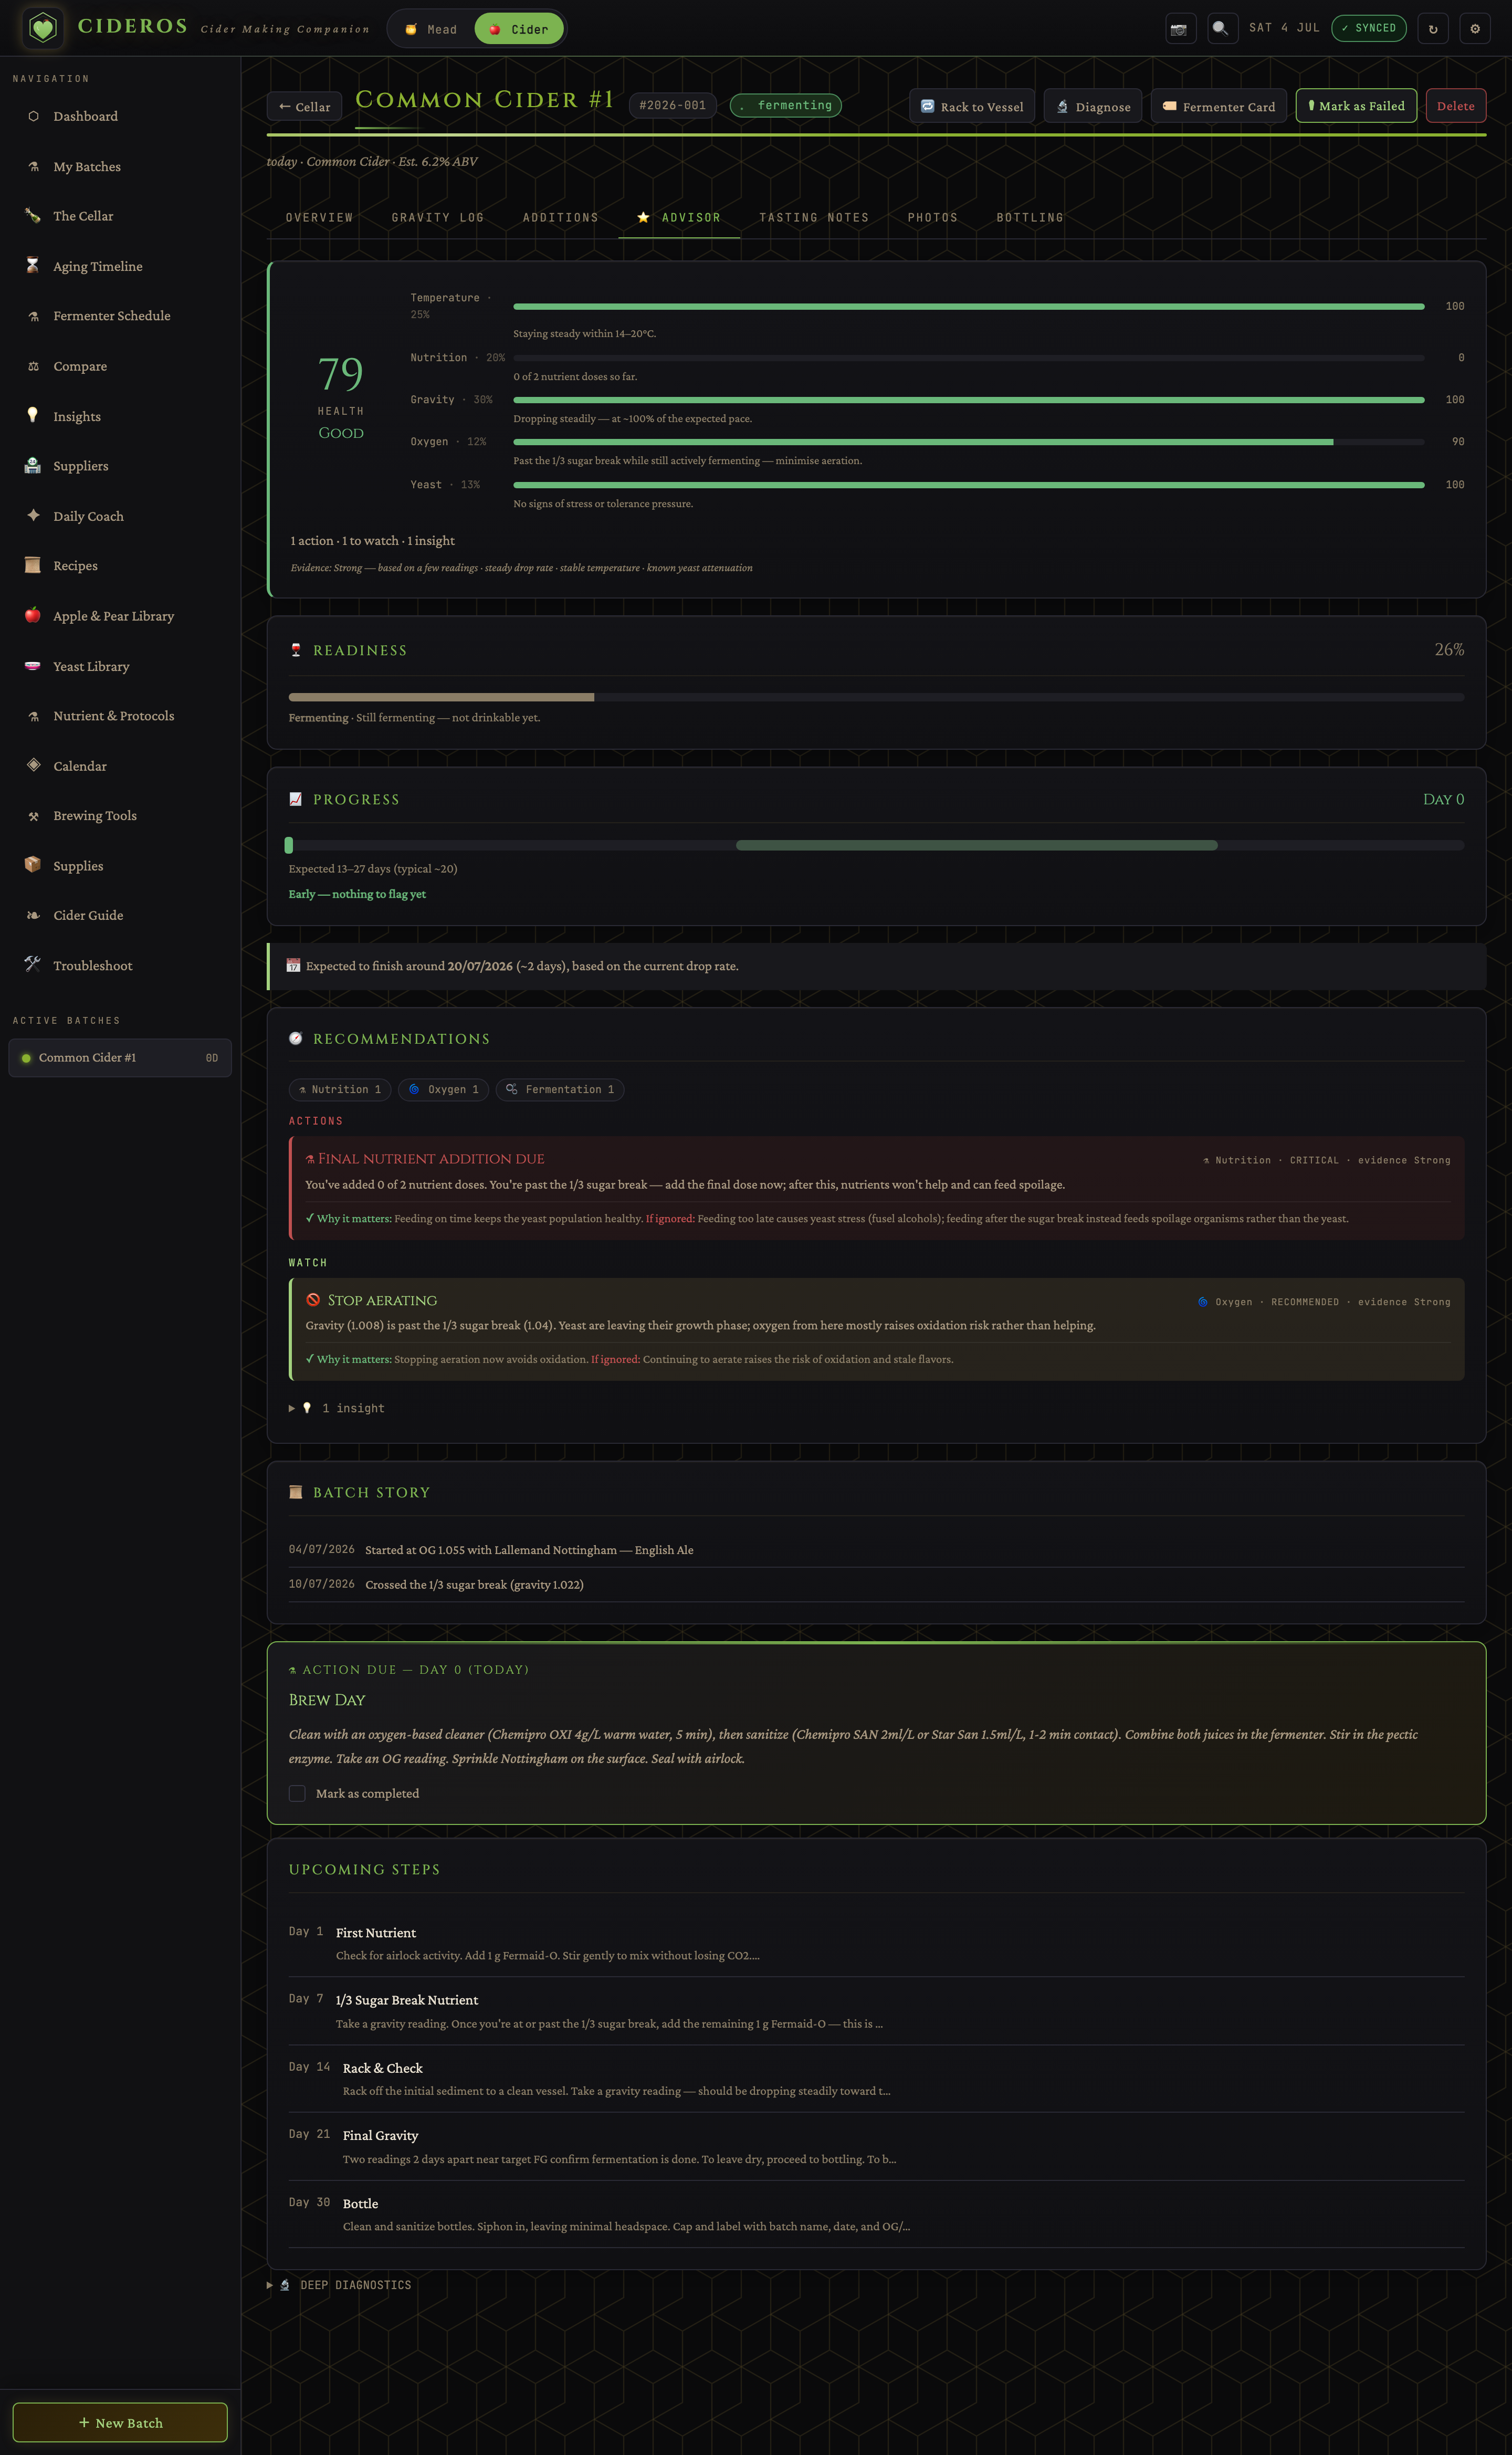
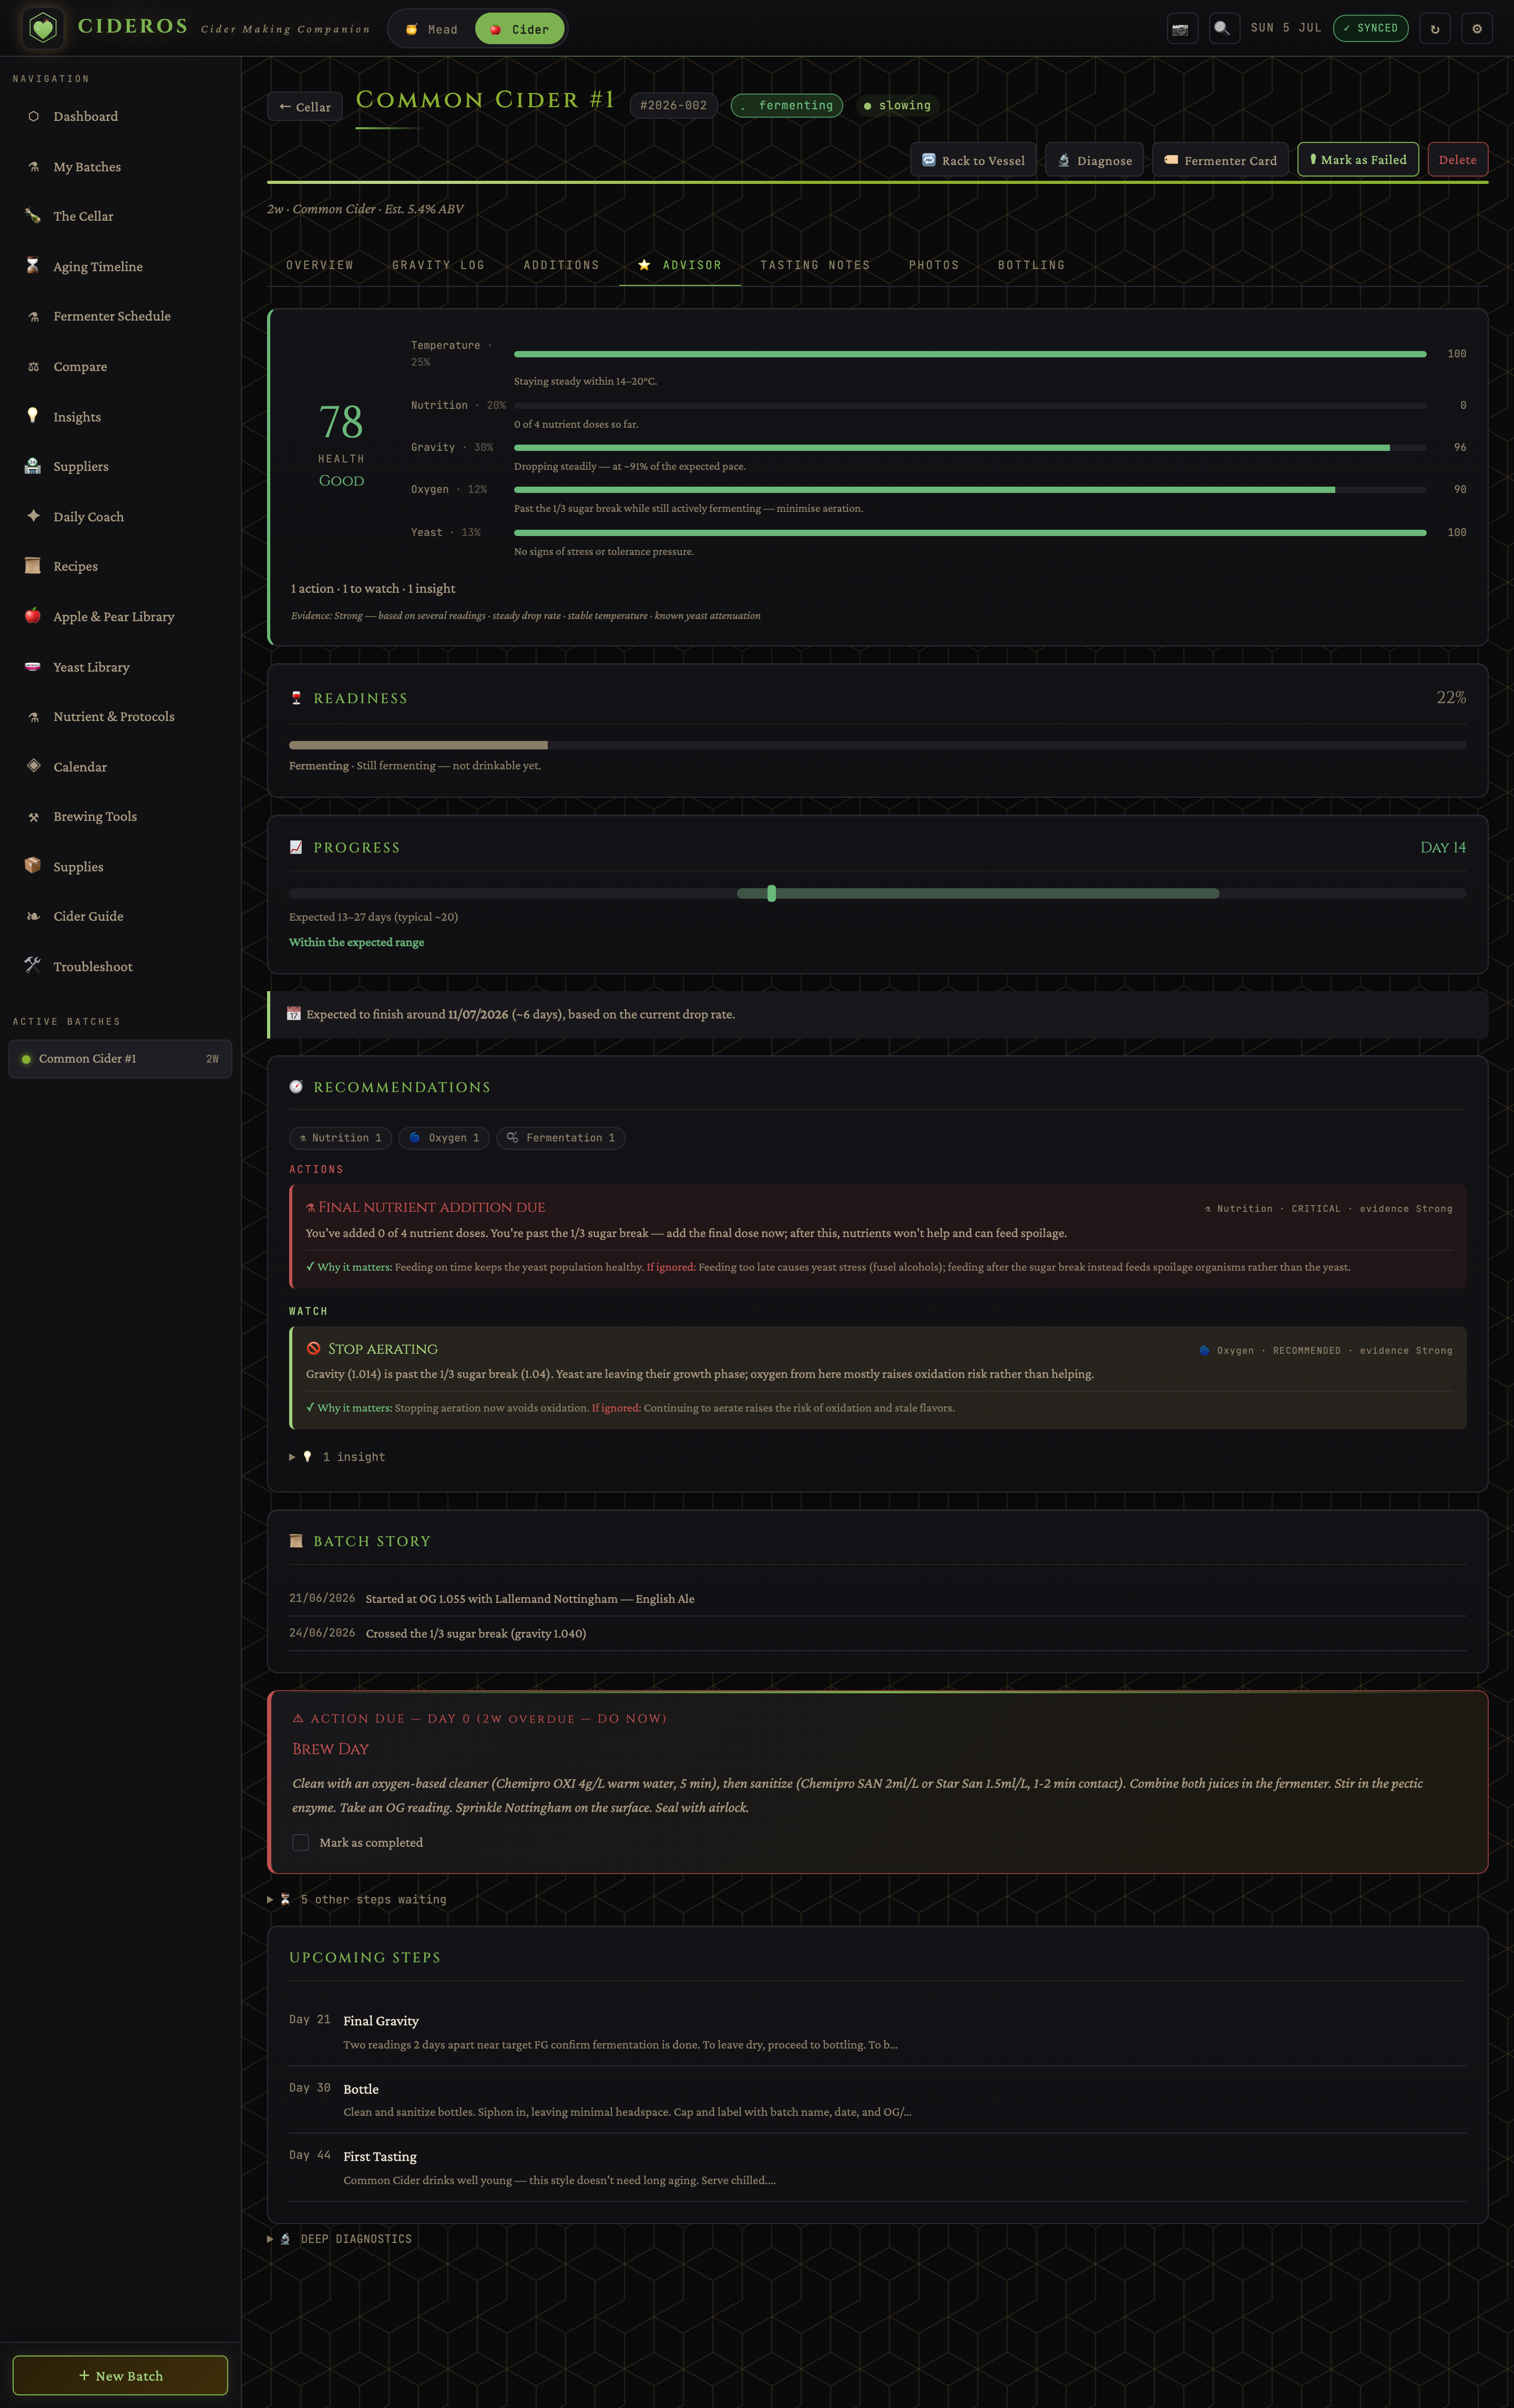
Cider-mode polish + beverage-mode filtering
A guided Recipe Designer wizard for cider, share-link revocation, and beverage-mode filtering across Insights so mead and cider stats stop mixing.

diff --git a/core/features/11-recipe-designer.js b/core/features/11-recipe-designer.js
@@ -93,10 +93,85 @@ function wizRecommendYeasts(targetAbv){
   });
   return ok.length?ok:YEAST_STRAINS.slice();
 }
+
+// ==================== CIDER RECIPE DESIGNER WIZARD ====================
+// Cider counterpart to the mead wizard above. Shares the same step shell
+// (renderRecipeWizard, wizNav, the modal) but diverges on the two things
+// that are genuinely different for cider: there's no honey to back-solve
+// (juice supplies its own OG — see Formulas & Methods §17 in the wiki).
+var WIZ_CIDER_STYLES=[
+  {key:'Common Cider',label:'Common',color:'#8ab030',adjunct:null,desc:'Culinary apples — the honest everyday cider.'},
+  {key:'Heirloom Cider',label:'Heirloom',color:'#6a4020',adjunct:null,desc:'Real cider-apple character — a bittersweet + sharp blend.'},
+  {key:'English Cider',label:'English',color:'#754020',adjunct:null,desc:'Tannic and full-bodied, built around a bittersharp backbone.'},
+  {key:'New England Cider',label:'New England',color:'#9a6a2a',adjunct:null,desc:'Higher-ABV, raisin/brown-sugar boosted tradition.'},
+  {key:'Fruit Cider',label:'Fruit',color:'#c04858',adjunct:'fruit',desc:'Apple cider fermented or blended with fruit.'},
+  {key:'Spiced Cider',label:'Spiced',color:'#7a5230',adjunct:'spice',desc:'Warming spices — mulled-cider character.'},
+  {key:'Ice Cider',label:'Ice Cider',color:'#5a8aa0',adjunct:null,desc:'Freeze-concentrated juice — rich, dessert-sweet.'}
+];
+function wizComputeCiderMath(w){
+  var sw=WIZ_SWEETNESS.find(function(s){return s.key===w.sweetness;})||WIZ_SWEETNESS[2];
+  var fg=sw.fg;
+  var abv=parseFloat(w.abv)||6.5;
+  var vol=parseFloat(w.volume)||5;
+  var og=fg+abv/131.25;
+  // No honey-equivalent back-solve here — juice supplies its own fermentable
+  // sugar, so there's nothing to weigh out the way honey is. The wizard's
+  // job is to tell you the OG your juice/blend needs to hit, not to compute
+  // an ingredient amount (see Cider-Mode wiki page for why).
+  return{fg:fg,og:Math.round(og*1000)/1000,abv:abv,vol:vol,juiceL:vol};
+}
+function wizRecommendCiderYeasts(targetAbv){
+  var ciderYeasts=YEAST_STRAINS.filter(function(y){return(y.beverageTypes||[]).indexOf('cider')>=0;});
+  var ok=ciderYeasts.filter(function(y){return(y.abvMax||14)>=targetAbv+0.5;});
+  ok.sort(function(a,b){
+    if(a.id==='nottingham')return-1;if(b.id==='nottingham')return 1;
+    return(a.abvMax||14)-(b.abvMax||14);
+  });
+  return ok.length?ok:ciderYeasts;
+}
+function wizBuildCiderRecipe(w){
+  var m=wizComputeCiderMath(w);
+  var st=WIZ_CIDER_STYLES.find(function(s){return s.key===w.style;})||WIZ_CIDER_STYLES[0];
+  var yeast=getYeastById(w.yeast)||wizRecommendCiderYeasts(m.abv)[0];
+  var fermDays=m.abv>=9?35:21;
+  var ingredients=[
+    {item:'Apple Juice',amount:m.juiceL+' L',notes:st.key==='Ice Cider'?'Freeze-concentrate part of this to reach the target OG':'Fresh-pressed or 100% juice, no preservatives/sorbate'}
+  ];
+  if(st.adjunct==='fruit'||st.adjunct==='spice'){
+    ingredients.push({item:w.adjunctName||(st.adjunct==='fruit'?'Fruit':'Spices'),amount:w.adjunctAmount||(st.adjunct==='fruit'?Math.round(m.vol*0.2*10)/10+' kg':'to taste'),notes:'Add in secondary'});
+  }
+  if(st.key==='New England Cider'){
+    ingredients.push({item:'Raisins',amount:Math.round(m.vol*0.1*100)/100+' kg',notes:'Traditional gravity/body boost'});
+    ingredients.push({item:'Brown Sugar',amount:Math.round(m.vol*0.1*100)/100+' kg',notes:'Dissolve into the juice to help reach target OG'});
+  }
+  ingredients.push({item:yeast.name,amount:(yeast.sachetSize||11)+' '+(yeast.unit||'g')+' (1 packet)',notes:'Sprinkle on must or rehydrate per packet instructions'});
+  ingredients.push({item:'Pectic Enzyme',amount:Math.round(m.vol*0.4*10)/10+' g',notes:'Prevents a lasting pectin haze — apple/pear juice always carries natural pectin'});
+  ingredients.push({item:'Fermaid-O',amount:Math.round(m.vol*0.4*10)/10+' g total',notes:'Staggered addition — apple must is nitrogen-poor like honey must'});
+  var steps=[
+    {day:0,title:'Brew Day',desc:'Clean & sanitize. Combine the juice'+(st.adjunct==='fruit'?' and fruit':'')+' in the fermenter. Stir in the pectic enzyme. Take an OG reading (target '+m.og+'). Sprinkle/rehydrate '+yeast.name.split('—')[0].trim()+' and pitch. Seal with airlock.'},
+    {day:1,title:'First Nutrient',desc:'Add half the Fermaid-O. Stir gently to mix without losing CO2.'},
+    {day:7,title:'1/3 Sugar Break Nutrient',desc:'Once at or past the 1/3 sugar break, add the remaining Fermaid-O — the last nutrient addition.'},
+    {day:14,title:'Rack & Check',desc:'Rack off the initial sediment to a clean vessel. Take a gravity reading — should be dropping steadily toward '+m.fg.toFixed(3)+'.'},
+    {day:fermDays,title:'Final Gravity & Bottle',desc:'Two stable readings near '+m.fg.toFixed(3)+' confirm completion. To back-sweeten, stabilise first with metabisulfite AND sorbate together. Then bottle.'}
+  ];
+  var minDays=m.abv>=9?60:14;
+  return{
+    name:w.name||((WIZ_CIDER_STYLES.find(function(s){return s.key===w.style;})||{}).label||'Cider')+' (Designed)',
+    style:w.style,difficulty:m.abv>=9?'Intermediate':'Beginner',
+    description:'Designed for '+m.abv+'% ABV, '+(WIZ_SWEETNESS.find(function(s){return s.key===w.sweetness;})||{}).label.toLowerCase()+'. '+st.desc,
+    brandColor:st.color,beverageType:'cider',
+    volume:m.vol,ogTarget:m.og,fgTarget:m.fg,abvTarget:m.abv,fermentDays:fermDays,
+    minAgeDays:minDays,peakAgeDays:minDays+60,maxAgeDays:minDays+240,
+    tags:['custom','designed',st.label.split(' ')[0].toLowerCase()],
+    ingredients:ingredients,steps:steps
+  };
+}
+
 function openRecipeWizard(){
   closeModal();
-  window._wiz={step:0,name:'',style:'Traditional Mead',volume:5,abv:12,sweetness:'semi',
-    yeast:'m05',nutrient:'tosca2',adjunctName:'',adjunctAmount:''};
+  var isCider=(typeof activeBevMode==='function')&&activeBevMode()==='cider';
+  window._wiz={step:0,name:'',style:isCider?'Common Cider':'Traditional Mead',volume:5,abv:isCider?6.5:12,sweetness:'semi',
+    yeast:isCider?'nottingham':'m05',nutrient:'tosca2',adjunctName:'',adjunctAmount:''};
   renderRecipeWizard();
 }
 function wizSet(field,val){
@@ -104,9 +179,10 @@ function wizSet(field,val){
   window._wiz[field]=val;
   // Picking a style preselects a sensible adjunct placeholder
   if(field==='style'){
-    var st=WIZ_STYLES.find(function(s){return s.key===val;});
+    var isCider=(typeof activeBevMode==='function')&&activeBevMode()==='cider';
+    var st=(isCider?WIZ_CIDER_STYLES:WIZ_STYLES).find(function(s){return s.key===val;});
     if(st&&st.adjunct&&!window._wiz.adjunctName){
-      window._wiz.adjunctName=st.adjunct==='fruit'?'Fruit (e.g. raspberries)':st.adjunct==='juice'?(val==='Cyser'?'Fresh apple juice':'Grape juice'):'Spices';
+      window._wiz.adjunctName=st.adjunct==='fruit'?(isCider?'Fruit (e.g. blackberries)':'Fruit (e.g. raspberries)'):st.adjunct==='juice'?(val==='Cyser'?'Fresh apple juice':'Grape juice'):'Spices';
     }
   }
   renderRecipeWizard();
@@ -125,7 +201,9 @@ function wizNav(delta){
   renderRecipeWizard();
 }
 function wizBuildRecipe(){
-  var w=window._wiz,m=wizComputeMath(w);
+  var w=window._wiz;
+  if((typeof activeBevMode==='function')&&activeBevMode()==='cider')return wizBuildCiderRecipe(w);
+  var m=wizComputeMath(w);
   var st=WIZ_STYLES.find(function(s){return s.key===w.style;})||WIZ_STYLES[0];
   var yeast=getYeastById(w.yeast)||YEAST_STRAINS[0];
   var fermDays=m.abv>=15?56:42;
@@ -180,14 +258,16 @@ function wizFinish(){
 function renderRecipeWizard(){
   var w=window._wiz;if(!w)return;
   var existing=document.querySelector('.modal-overlay');if(existing)existing.remove();
-  var m=wizComputeMath(w);
+  var isCider=(typeof activeBevMode==='function')&&activeBevMode()==='cider';
+  var m=isCider?wizComputeCiderMath(w):wizComputeMath(w);
+  var styleList=isCider?WIZ_CIDER_STYLES:WIZ_STYLES;
   var steps=['Style & Targets','Yeast','Adjuncts & Nutrient','Review'];
   var dots=steps.map(function(s,i){
     return'<div style="display:flex;align-items:center;gap:6px"><div style="width:22px;height:22px;border-radius:50%;display:flex;align-items:center;justify-content:center;font-family:var(--font-mono);font-size:11px;'+(i===w.step?'background:var(--gold);color:#1a1a0f':i<w.step?'background:var(--green2);color:#0f0f0a':'background:var(--bg3);color:var(--text3)')+'">'+(i<w.step?'✓':(i+1))+'</div><span style="font-family:var(--font-mono);font-size:10px;letter-spacing:0.5px;color:'+(i===w.step?'var(--gold2)':'var(--text3)')+'">'+s+'</span></div>';
   }).join('<div style="flex:1;height:1px;background:var(--border);min-width:8px"></div>');
   var body='';
   if(w.step===0){
-    var styleBtns=WIZ_STYLES.map(function(s){
+    var styleBtns=styleList.map(function(s){
       var on=w.style===s.key;
       return'<button type="button" onclick="wizSet(\'style\',\''+s.key+'\')" style="text-align:left;padding:10px 12px;border-radius:var(--radius);cursor:pointer;border:1px solid '+(on?s.color:'var(--border)')+';background:'+(on?s.color+'22':'var(--bg3)')+'"><div style="font-size:13px;color:'+(on?s.color:'var(--text)')+';font-weight:500">'+s.label+'</div><div style="font-size:11px;color:var(--text3);line-height:1.3;margin-top:2px">'+s.desc+'</div></button>';
     }).join('');
@@ -195,22 +275,23 @@ function renderRecipeWizard(){
       var on=w.sweetness===s.key;
       return'<button type="button" onclick="wizSet(\'sweetness\',\''+s.key+'\')" style="flex:1;min-width:84px;padding:8px 6px;border-radius:var(--radius);cursor:pointer;border:1px solid '+(on?'var(--gold)':'var(--border)')+';background:'+(on?'rgba(201,168,76,0.14)':'var(--bg3)')+'"><div style="font-size:12px;color:'+(on?'var(--gold2)':'var(--text)')+'">'+s.label+'</div><div style="font-family:var(--font-mono);font-size:9.5px;color:var(--text3);margin-top:2px">FG '+s.fg.toFixed(3)+'</div></button>';
     }).join('');
-    body='<div class="form-group"><label class="form-label">Recipe Name</label><input class="form-input" id="wiz-name" value="'+escHtml(w.name)+'" placeholder="My Designer Mead"></div>'
+    body='<div class="form-group"><label class="form-label">Recipe Name</label><input class="form-input" id="wiz-name" value="'+escHtml(w.name)+'" placeholder="'+(isCider?'My Designer Cider':'My Designer Mead')+'"></div>'
       +'<div class="form-group"><label class="form-label">Style</label><div style="display:grid;grid-template-columns:1fr 1fr;gap:8px">'+styleBtns+'</div></div>'
       +'<div class="form-row"><div class="form-group"><label class="form-label">Batch Volume (L)</label><input class="form-input" id="wiz-vol" type="number" step="0.5" value="'+w.volume+'" oninput="window._wiz.volume=parseFloat(this.value)||5;wizUpdateMath()"></div>'
-      +'<div class="form-group"><label class="form-label">Target ABV (%)</label><input class="form-input" id="wiz-abv" type="number" step="0.5" value="'+w.abv+'" oninput="window._wiz.abv=parseFloat(this.value)||12;wizUpdateMath()"></div></div>'
+      +'<div class="form-group"><label class="form-label">Target ABV (%)</label><input class="form-input" id="wiz-abv" type="number" step="0.5" value="'+w.abv+'" oninput="window._wiz.abv=parseFloat(this.value)||'+(isCider?6.5:12)+';wizUpdateMath()"></div></div>'
       +'<div class="form-group"><label class="form-label">Sweetness</label><div style="display:flex;gap:6px;flex-wrap:wrap">'+sweetBtns+'</div></div>'
       +wizMathBox(m);
   }else if(w.step===1){
-    var recs=wizRecommendYeasts(m.abv);
+    var recs=isCider?wizRecommendCiderYeasts(m.abv):wizRecommendYeasts(m.abv);
     var recIds={};recs.slice(0,3).forEach(function(y){recIds[y.id]=true;});
-    var opts=YEAST_STRAINS.map(function(y){
+    var yeastPool=isCider?YEAST_STRAINS.filter(function(y){return(y.beverageTypes||[]).indexOf('cider')>=0;}):YEAST_STRAINS;
+    var opts=yeastPool.map(function(y){
       var fits=(y.abvMax||14)>=m.abv+0.5;
       return'<option value="'+y.id+'"'+(w.yeast===y.id?' selected':'')+'>'+escHtml(y.name)+' · '+(y.abvMax||'?')+'% max'+(fits?'':' ⚠ below target')+(recIds[y.id]?' ★':'')+'</option>';
     }).join('');
-    var chosen=getYeastById(w.yeast)||YEAST_STRAINS[0];
+    var chosen=getYeastById(w.yeast)||yeastPool[0];
     var fitsTarget=(chosen.abvMax||14)>=m.abv+0.5;
-    body='<div style="font-size:13px;color:var(--text2);margin-bottom:12px;line-height:1.5">For <strong>'+m.abv+'% ABV</strong> you need a yeast that tolerates at least that. ★ marks strains recommended for this target (honey-friendly, enough headroom).</div>'
+    body='<div style="font-size:13px;color:var(--text2);margin-bottom:12px;line-height:1.5">For <strong>'+m.abv+'% ABV</strong> you need a yeast that tolerates at least that. ★ marks strains recommended for this target ('+(isCider?'cider-appropriate':'honey-friendly')+', enough headroom).</div>'
       +'<div class="form-group"><label class="form-label">Yeast Strain</label><select class="form-select" id="wiz-yeast" onchange="window._wiz.yeast=this.value;renderRecipeWizard()">'+opts+'</select></div>'
       +'<div style="padding:12px;background:var(--bg3);border-radius:var(--radius);border-left:3px solid '+(fitsTarget?'var(--green2)':'var(--red2)')+'">'
       +'<div style="font-size:13px;color:var(--text);font-weight:500">'+escHtml(chosen.name)+'</div>'
@@ -219,14 +300,19 @@ function renderRecipeWizard(){
       +(fitsTarget?'':'<div style="font-size:12px;color:var(--red2);margin-top:6px">⚠ This strain may not reach '+m.abv+'% — it could stall sweet. Pick one with higher tolerance or lower your target.</div>')
       +'</div>'+wizMathBox(m);
   }else if(w.step===2){
-    var st=WIZ_STYLES.find(function(s){return s.key===w.style;})||WIZ_STYLES[0];
+    var st=styleList.find(function(s){return s.key===w.style;})||styleList[0];
     var adjBlock='';
     if(st.adjunct){
-      adjBlock='<div class="form-row"><div class="form-group"><label class="form-label">'+(st.adjunct==='fruit'?'Fruit':st.adjunct==='spice'?'Spice / herb':'Juice')+'</label><input class="form-input" id="wiz-adj-name" value="'+escHtml(w.adjunctName)+'" placeholder="'+(st.adjunct==='fruit'?'Raspberries, frozen':st.adjunct==='spice'?'Cinnamon, vanilla…':'Apple juice')+'"></div>'
-        +'<div class="form-group"><label class="form-label">Amount</label><input class="form-input" id="wiz-adj-amt" value="'+escHtml(w.adjunctAmount)+'" placeholder="'+(st.adjunct==='fruit'?(Math.round(m.vol*0.3*10)/10+' kg'):st.adjunct==='spice'?'2 sticks':(Math.round(m.vol*0.5*10)/10+' L'))+'"></div></div>';
+      adjBlock='<div class="form-row"><div class="form-group"><label class="form-label">'+(st.adjunct==='fruit'?'Fruit':st.adjunct==='spice'?'Spice / herb':'Juice')+'</label><input class="form-input" id="wiz-adj-name" value="'+escHtml(w.adjunctName)+'" placeholder="'+(st.adjunct==='fruit'?(isCider?'Blackberries, frozen':'Raspberries, frozen'):st.adjunct==='spice'?'Cinnamon, vanilla…':'Apple juice')+'"></div>'
+        +'<div class="form-group"><label class="form-label">Amount</label><input class="form-input" id="wiz-adj-amt" value="'+escHtml(w.adjunctAmount)+'" placeholder="'+(st.adjunct==='fruit'?(Math.round(m.vol*(isCider?0.2:0.3)*10)/10+' kg'):st.adjunct==='spice'?'2 sticks':(Math.round(m.vol*0.5*10)/10+' L'))+'"></div></div>';
     }else{
-      adjBlock='<div style="font-size:13px;color:var(--text3);font-style:italic;margin-bottom:12px">'+escHtml(st.label)+' is a base-style mead — no fruit/spice adjuncts. You can still add some in the editor afterwards.</div>';
+      adjBlock='<div style="font-size:13px;color:var(--text3);font-style:italic;margin-bottom:12px">'+escHtml(st.label)+' is a base-style '+(isCider?'cider':'mead')+' — no fruit/spice adjuncts. You can still add some in the editor afterwards.</div>';
     }
+    if(isCider){
+      body=adjBlock
+        +'<div style="font-size:13px;color:var(--text2);line-height:1.5;padding:12px;background:var(--bg3);border-radius:var(--radius)">Cider recipes use a simple two-dose Fermaid-O schedule (half at pitch, half at the 1/3 sugar break) — no protocol picker needed here. Pectic enzyme is included by default since apple/pear juice always carries natural pectin.</div>'
+        +wizMathBox(m);
+    }else{
     body=adjBlock
       +'<div class="form-group"><label class="form-label">Nutrient Protocol</label><select class="form-select" id="wiz-nutrient" onchange="window._wiz.nutrient=this.value">'
       +'<option value="tosca2"'+(w.nutrient==='tosca2'?' selected':'')+'>TOSCA 2.0 — organic, recommended</option>'
@@ -236,6 +322,7 @@ function renderRecipeWizard(){
       +'<option value="sna-high"'+(w.nutrient==='sna-high'?' selected':'')+'>SNA — high-gravity (3 doses)</option>'
       +'</select><div style="font-size:11px;color:var(--text3);margin-top:4px;font-style:italic">Organic (Fermaid-O) protocols give the cleanest honey character. High-gravity (≥15%) batches benefit from the extra dose.</div></div>'
       +wizMathBox(m);
+    }
   }else{
     var built=wizBuildRecipe();
     body='<div style="font-size:13px;color:var(--text2);margin-bottom:12px">Here\'s your designed recipe. Open it in the editor to tweak ingredient amounts, steps, and aging windows before saving.</div>'
@@ -267,11 +354,15 @@ function wizMathBox(m){
     +'<div style="font-size:11px;color:var(--text3);margin-top:8px;line-height:1.4">'+wizMathNote(m)+'</div></div>';
 }
 function wizMathCells(m){
-  return[['OG',m.og],['FG',m.fg.toFixed(3)],['ABV',m.abv+'%'],['Honey',m.honeyKg+' kg']].map(function(x){
+  var last=m.juiceL!=null?['Juice',m.juiceL+' L']:['Honey',m.honeyKg+' kg'];
+  return[['OG',m.og],['FG',m.fg.toFixed(3)],['ABV',m.abv+'%'],last].map(function(x){
     return'<div style="text-align:center"><div style="font-family:var(--font-display);font-size:18px;color:var(--gold2)">'+x[1]+'</div><div style="font-family:var(--font-mono);font-size:9px;color:var(--text3);letter-spacing:1px;margin-top:2px">'+x[0]+'</div></div>';
   }).join('');
 }
 function wizMathNote(m){
+  if(m.juiceL!=null){
+    return'Your juice/blend needs to read <strong>OG '+m.og+'</strong> in '+m.vol+' L to finish near FG '+m.fg.toFixed(3)+' for ~'+m.abv+'% ABV. Juice supplies its own sugar — there\'s no honey to weigh out. Blend varieties, add a juice concentrate, or (for high-OG styles like Ice Cider) freeze-concentrate to raise it; dilute with water to lower it. Check your actual juice\'s OG at brew day.';
+  }
   var base='Need <strong>~'+m.honeyKg+' kg honey</strong> in '+m.vol+' L to hit OG '+m.og+', finishing near FG '+m.fg.toFixed(3)+' for ~'+m.abv+'% ABV.';
   if(m.adjunctHoneyEquivKg>0)base+=' Already counts ~'+m.adjunctHoneyEquivKg+' kg of that OG as coming from the '+m.adjunctAmount+' of fruit/juice, not honey.';
   return base;
@@ -280,7 +371,8 @@ function wizMathNote(m){
 // focus in the number inputs on step 0).
 function wizUpdateMath(){
   var grid=document.getElementById('wiz-math-grid');if(!grid||!window._wiz)return;
-  var m=wizComputeMath(window._wiz);
+  var isCider=(typeof activeBevMode==='function')&&activeBevMode()==='cider';
+  var m=isCider?wizComputeCiderMath(window._wiz):wizComputeMath(window._wiz);
   grid.innerHTML=wizMathCells(m);
 }
 

diff --git a/core/share/13-share.js b/core/share/13-share.js
@@ -51,6 +51,25 @@ function shareTokenForBatch(batchId){
   return tok;
 }
 
+// Read-only check — has a share token already been minted for this batch?
+// Used to decide whether to show the Revoke button without minting one.
+function hasShareToken(batchId){
+  return !!(APP.shareTokens&&Object.keys(APP.shareTokens).some(function(t){return APP.shareTokens[t]===batchId;}));
+}
+
+// Delete the token so the existing URL 404s immediately (server resolves
+// tokens straight out of the synced state blob — nothing else to clean up).
+function revokeShareLink(batchId){
+  if(!APP.shareTokens)return;
+  var tok=Object.keys(APP.shareTokens).find(function(t){return APP.shareTokens[t]===batchId;});
+  if(!tok)return;
+  if(!confirm('Revoke this batch\'s share link? The existing URL will stop working immediately.'))return;
+  delete APP.shareTokens[tok];
+  scheduleSave();
+  toast('✦ Share link revoked');
+  renderMain();
+}
+
 function buildShareURL(batch){
   if(!batch||!batch.id)return null;
   var base=appBaseUrl();

diff --git a/core/views/12-insights.js b/core/views/12-insights.js
@@ -12,7 +12,7 @@
 // Trophy shelf: every competition award across all batches, with a medal tally.
 function renderTrophyShelf(){
   var nl=(typeof appLang==='function'&&appLang()==='nl');
-  var bmap={};(APP.batches||[]).forEach(function(b){bmap[b.id]=b;});
+  var bmap={};visibleBatches().forEach(function(b){bmap[b.id]=b;});
   var entries=[];
   Object.keys(APP.competitions||{}).forEach(function(bid){
     var b=bmap[bid];if(!b)return;
@@ -42,8 +42,8 @@ function _insightsTitleBar(){
     +'</div>';
 }
 function renderInsightsView(){
-  var bottled=APP.batches.filter(function(b){return APP.bottling[b.id];});
-  var failed=APP.batches.filter(function(b){return b.failed;});
+  var bottled=visibleBatches().filter(function(b){return APP.bottling[b.id];});
+  var failed=visibleBatches().filter(function(b){return b.failed;});
   if(bottled.length<3&&!failed.length){
     // Pattern-mining needs more data, but the fun lifetime stats are worth
     // showing from batch one.
@@ -98,7 +98,7 @@ function renderIngredientPerformance(){
 
 // Fun + meaningful lifetime insights mined from the whole brewing history.
 function renderFunInsights(){
-  var batches=APP.batches||[];
+  var batches=visibleBatches();
   if(!batches.length)return'';
   var L=(typeof lifetimeStats==='function')?lifetimeStats():null;
   function mode(arr){var c={},best=null,bn=0;arr.forEach(function(v){if(!v)return;c[v]=(c[v]||0)+1;if(c[v]>bn){bn=c[v];best=v;}});return best?{val:best,n:bn}:null;}
@@ -167,7 +167,7 @@ function renderFunInsights(){
 // "what your best batches share". When you have failures, learning from them
 // systematically is more valuable than reviewing them ad-hoc.
 function renderFailedBatchInsights(){
-  var failed=(APP.batches||[]).filter(function(b){return b.failed;});
+  var failed=visibleBatches().filter(function(b){return b.failed;});
   if(!failed.length)return''; // no failures = no card. Keeps the view cleaner.
   // Sort newest-first
   failed.sort(function(a,b){return(b.failed.date||'').localeCompare(a.failed.date||'');});
@@ -221,7 +221,7 @@ function renderFailedBatchInsights(){
     +patternRows.map(function(r){return'<div style="display:flex;justify-content:space-between;font-size:12px;padding:4px 0"><div style="color:var(--text3);font-family:var(--font-mono);font-size:10px;letter-spacing:1px">'+escHtml(r.k.toUpperCase())+'</div><div style="text-align:right"><span style="color:var(--gold2);font-family:var(--font-display);font-size:13px">'+escHtml(r.v)+'</span> <span style="color:var(--text3);font-size:10.5px;font-style:italic">'+escHtml(r.detail)+'</span></div></div>';}).join('')
     +'</div>':'';
 
-  var totalBatches=(APP.batches||[]).length;
+  var totalBatches=visibleBatches().length;
   var failureRate=totalBatches?(failed.length/totalBatches*100).toFixed(0):0;
 
   return'<div class="card" style="margin-bottom:16px;border-left:3px solid var(--red2)"><div class="card-header"><div class="card-title">⚰ POSTMORTEMS</div><div style="font-family:var(--font-mono);font-size:10px;color:var(--text3);letter-spacing:1px">'+failed.length+' FAILED · '+failureRate+'% OF '+totalBatches+'</div></div>'
@@ -237,7 +237,7 @@ function renderFailedBatchInsights(){
 // computes mode/median for each interesting attribute.
 function renderBestTastingInsights(){
   // Build per-batch summary including best tasting rating
-  var batchSummaries=APP.batches.filter(function(b){return APP.bottling[b.id];}).map(function(b){
+  var batchSummaries=visibleBatches().filter(function(b){return APP.bottling[b.id];}).map(function(b){
     var tastings=(APP.tastings[b.id]||[]).filter(function(t){return t.rating;});
     var bestRating=tastings.length?Math.max.apply(null,tastings.map(function(t){return t.rating;})):0;
     var bot=APP.bottling[b.id];
@@ -309,7 +309,7 @@ function renderBestTastingInsights(){
 
 // Personal trend dashboard — year-over-year stats. Useful starting at year 2.
 function renderPersonalTrends(){
-  var bottled=APP.batches.filter(function(b){return APP.bottling[b.id];});
+  var bottled=visibleBatches().filter(function(b){return APP.bottling[b.id];});
   // Group by start-year
   var byYear={};
   bottled.forEach(function(b){

diff --git a/core/data/data-libraries-nl.js b/core/data/data-libraries-nl.js
@@ -1,9 +1,10 @@
 // ==========================================================================
-// Dutch translations of the reference libraries (honey profiles for now;
-// yeast/nutrient added in later waves). Keyed by the same English name as the
-// source data in data-libraries.js. The i18n data layer reverse-maps these so
-// the library views read Dutch when labelLocale is 'nl', without touching the
-// view code. Recipe references (r15, r10…) are kept verbatim.
+// Dutch translations of the honey library (yeast/nutrient translations live
+// in their own data-yeast-nl.js / data-nutrient-nl.js). Keyed by the same
+// English name as the source data in data-libraries.js. The i18n data layer
+// reverse-maps these so the library views read Dutch when labelLocale is
+// 'nl', without touching the view code. Recipe references (r15, r10…) are
+// kept verbatim.
 // ==========================================================================
 var HONEY_PROFILES_NL={
   'Tupelo':{profile:'Premium varietal uit het zuiden van de VS. Boterig en complex met jasmijn- en kaneeltonen, zeer zoet op de tong. Bleek goudgroen.',pairing:'Kleinschalige traditionele meden waarin de honing de ster is; uitstekend als terugzoeter.',notes:'KRITISCH fructoserisico (F:G ~1,54) — fructofiele gist (K1-V1116, BC-S103, UVAFERM 43) is verplicht of het valt stil bij de 1/3-breuk. Zeldzaam, seizoensgebonden, duur.'},

diff --git a/core/views/09-views-library.js b/core/views/09-views-library.js
@@ -1421,7 +1421,7 @@ function renderSettings(){
     +'<div style="font-size:14px;color:var(--text2);line-height:1.8">'
     +'<strong>Run the server:</strong> <code style="background:var(--bg4);padding:2px 6px;border-radius:3px;font-family:var(--font-mono);font-size:12px">python3 server.py</code> — serves this app and stores all data in <code style="background:var(--bg4);padding:2px 6px;border-radius:3px;font-family:var(--font-mono);font-size:12px">meados.db</code> (SQLite).<br><br>'
     +'<strong>Share with others:</strong> anyone who can reach the machine opens <code style="background:var(--bg4);padding:2px 6px;border-radius:3px;font-family:var(--font-mono);font-size:12px">http://&lt;host&gt;:8080</code> and sees the same shared data.<br><br>'
-    +'<strong>Backup:</strong> copy <code style="background:var(--bg4);padding:2px 6px;border-radius:3px;font-family:var(--font-mono);font-size:12px">meados.db</code>, or use Export Backup on the left. The server also keeps the last 50 saves in a history table.<br><br>'
+    +'<strong>Backup:</strong> copy <code style="background:var(--bg4);padding:2px 6px;border-radius:3px;font-family:var(--font-mono);font-size:12px">meados.db</code>, or use Export Backup on the left. The server also keeps the last 200 saves in a history table.<br><br>'
     +'<strong>Embed in Home Assistant (optional):</strong> add a Webpage/iframe card pointing at this app\'s URL.'
     +'</div></div>'
     +'<div class="card"><div class="card-header"><div class="card-title">DANGER ZONE</div></div>'
@@ -1464,7 +1464,11 @@ function renderSourcesCard(){
     row(nl?'Refractometer-alcoholcorrectie':'Refractometer alcohol correction',
       'Sean Terrill\'s cubic fit.'),
     row(nl?'Restkoolzuur bij bottelen (priming)':'Priming-sugar residual CO₂',
-      (nl?'Het standaard temperatuurpolynoom dat vrijwel elke priming-calculator gebruikt.':'The standard temperature polynomial used by nearly every priming calculator.'))
+      (nl?'Het standaard temperatuurpolynoom dat vrijwel elke priming-calculator gebruikt.':'The standard temperature polynomial used by nearly every priming calculator.')),
+    row(nl?'Appel-/perenclassificatie (LARS)':'Apple &amp; pear classification (LARS)',
+      (nl?'De tannine-/zuurindeling in de Appel- &amp; Perenbibliotheek en de "Source Your Apples"-matchscore volgen het classificatiesysteem van het ':'The tannin/acid classification in the Apple &amp; Pear Library and the "Source Your Apples" fit rating follow the ')
+        +link('https://en.wikipedia.org/wiki/Long_Ashton_Research_Station','Long Ashton Research Station')+(nl?' (LARS), de industriestandaard die ook door het ':' (LARS) classification system, the industry standard also adopted by the ')
+        +link('https://bjcp.org/','BJCP')+(nl?' cider-juryprogramma is overgenomen.':' cider judge program.'))
   ].join('');
   return '<div class="card"><div class="card-header"><div class="card-title">📚 '+(nl?'BRONNEN &amp; DANK':'SOURCES &amp; CREDITS')+'</div></div>'
     +'<div style="font-size:12.5px;color:var(--text3);font-style:italic;margin-bottom:4px;line-height:1.55">'

diff --git a/core/views/07-views-recipe.js b/core/views/07-views-recipe.js
@@ -112,11 +112,7 @@ function renderRecipes(){
     +'<div style="display:flex;gap:6px;flex-wrap:wrap">'
     +'<button class="btn btn-secondary btn-sm" onclick="importBeerXMLClick()" title="Import a BeerXML recipe file (.xml) from another brewing app">⬇ Import BeerXML</button>'
     +(APP.customRecipes.length?'<button class="btn btn-secondary btn-sm" onclick="exportAllCustomRecipesBeerXML()" title="Export all custom recipes as BeerXML">⬆ Export Custom</button>':'')
-    // The guided Designer wizard back-solves honey weight from OG (292 SG-points/kg)
-    // and only knows mead styles/adjuncts — cider's math and style list would need
-    // a real parallel wizard, not a relabeling, so it's mead-only for now. The plain
-    // "+ Create Recipe" form below is fully cider-aware (juice/Nottingham template).
-    +(activeBevMode()!=='cider'?'<button class="btn btn-secondary btn-sm" onclick="openRecipeWizard()" title="Guided designer: pick targets, it does the honey/OG math and picks a yeast">✦ Designer</button>':'')
+    +'<button class="btn btn-secondary btn-sm" onclick="openRecipeWizard()" title="Guided designer: pick targets, it works out the OG math and picks a yeast">✦ Designer</button>'
     +'<button class="btn btn-primary btn-sm" onclick="openCustomRecipeModal()">＋ Create Recipe</button>'
     +'</div></div>'
     +'<div class="page-subtitle">'+(activeBevMode()==='cider'?'The Cider Compendium':'The Mead Compendium')+' · '+visibleRecipes().length+' recipe'+(visibleRecipes().length!==1?'s':'')+(APP.customRecipes.length?' ('+APP.customRecipes.length+' yours)':'')+(anyFilterActive?' · '+filtered.length+' shown':'')+'</div>'

diff --git a/core/views/06-views-batch.js b/core/views/06-views-batch.js
@@ -894,7 +894,8 @@ function renderBatchDetail(){
     +((status==='bottled'||status==='complete')?'<button class="btn btn-secondary btn-sm" onclick="printBatchCertificate(\''+b.id+'\')" title="Print a one-page certificate for this batch">📜 Certificate</button>':'')
     +((status==='bottled'||status==='complete')?'<button class="btn btn-secondary btn-sm" onclick="openPermanentRecord(\''+b.id+'\')" title="Print or save the complete batch journal — every log, addition, tasting, cost, signed off with brewer name">📜 Complete Record</button>':'')
     +((status==='bottled'||status==='complete')?'<button class="btn btn-secondary btn-sm" onclick="openGiftCardModal(\''+b.id+'\')" title="Print a small gift card to accompany a gifted bottle">🎁 Gift Card</button>':'')
-    +((status==='bottled'||status==='complete')?'<button class="btn btn-secondary btn-sm" onclick="copyShareLink(\''+b.id+'\')" title="Copy a public share link (snapshot encoded in URL, works without HA login)">🔗 Share Link</button>':'')
+    +((status==='bottled'||status==='complete')?'<button class="btn btn-secondary btn-sm" onclick="copyShareLink(\''+b.id+'\')" title="Copy a public share link (unguessable token, resolves live data — nothing is embedded in the URL)">🔗 Share Link</button>':'')
+    +((status==='bottled'||status==='complete')&&typeof hasShareToken==='function'&&hasShareToken(b.id)?'<button class="btn btn-secondary btn-sm" onclick="revokeShareLink(\''+b.id+'\')" title="Revoke the share link — the existing URL stops working immediately">🔗✕ Revoke Link</button>':'')
     +((status==='bottled'||status==='complete')?'<button class="btn btn-secondary btn-sm" onclick="saveAsTemplate(\''+b.id+'\')" title="Save this batch\'s config as a reusable template">💾 Save Template</button>':'')
     +(status!=='bottled'&&status!=='complete'?'<button class="btn btn-secondary btn-sm" onclick="openRackModal(\''+b.id+'\')" title="Rack this batch to a different vessel">🔁 Rack to Vessel</button>':'')
     +(status!=='bottled'&&status!=='complete'?'<button class="btn btn-secondary btn-sm" onclick="showStuckFermDiagnosis(\''+b.id+'\')" title="Diagnose stalled fermentation">🔬 Diagnose</button>':'')

diff --git a/core/state/i18n.js b/core/state/i18n.js
@@ -408,7 +408,7 @@ var UI_PHRASES={
   "The server keeps your recent saved snapshots. Restore one if something got messed up — restoring first saves the current state, so it's reversible.":'De server bewaart je recente opgeslagen momentopnamen. Herstel er een als er iets misging — herstellen slaat eerst de huidige staat op, dus het is omkeerbaar.',
   'Run the server:':'Start de server:','— serves this app and stores all data in':'— bedient deze app en slaat alle gegevens op in',
   'Share with others:':'Deel met anderen:','anyone who can reach the machine opens':'iedereen die de machine kan bereiken opent','and sees the same shared data.':'en ziet dezelfde gedeelde gegevens.',
-  ', or use Export Backup on the left. The server also keeps the last 50 saves in a history table.':', of gebruik Back-up exporteren links. De server bewaart ook de laatste 50 opslagacties in een geschiedenistabel.',
+  ', or use Export Backup on the left. The server also keeps the last 200 saves in a history table.':', of gebruik Back-up exporteren links. De server bewaart ook de laatste 200 opslagacties in een geschiedenistabel.',
   "add a Webpage/iframe card pointing at this app's URL.":'voeg een Webpagina/iframe-kaart toe die naar de URL van deze app wijst.',
   'Permanently delete all batches, logs, and settings. Cannot be undone.':'Verwijder alle brouwsels, logs en instellingen permanent. Kan niet ongedaan gemaakt worden.',
   'DATA BACKUP':'GEGEVENS BACK-UP','Backup:':'Back-up:','Backup':'Back-up',

diff --git a/README.md b/README.md
@@ -52,7 +52,7 @@ Log gravity and temperature onto a combined **gravity-&-ABV** chart and a unifie
 Traditionals, melomels, cysers, pyments, metheglins, bochets, braggots, sack & port-style meads, plus five sparkling / bottle-conditioned recipes. Open any recipe and **pick your honey, yeast, nutrient and schedule** — the ingredients **and** the targets (FG / ABV / nutrient grams) recompute live as you drag the scale slider, and it **warns you before you brew** if the yeast can't reach the recipe's target. A melomel or cyser's **fruit and juice sugar counts toward the gravity math**, so the Designer doesn't quietly call for more honey than the batch needs; nutrient dosing scales with **your yeast's own nitrogen demand**, not a flat number regardless of strain. Every recipe also rates **every honey in the library** for *that* mead — a hand-curated great / good / workable / clash verdict with a note on what each swap does. "Brew This Recipe" carries your exact configuration straight into the new-batch form.
 
 **✦ Design without doing the maths**
-The Recipe Designer back-solves honey, OG/FG, a suitable yeast and a nutrient plan from a style, volume, target ABV and sweetness — then hands you an editable recipe.
+The Recipe Designer back-solves honey, OG/FG, a suitable yeast and a nutrient plan from a style, volume, target ABV and sweetness — then hands you an editable recipe. CiderOS mode gets its own path through the same wizard: since juice supplies its own sugar, it reports the target OG your juice/blend needs instead of a weighed addition, with cider styles and yeasts throughout.
 
 **🧮 Calculators with context**
 ABV, honey-for-target-gravity, **TOSNA 2.0** scheduling, sulfite (molecular SO₂), acid/TA, backsweetening & stabilisation, a **bench trial scaler** (dose a stock solution precisely, then scale the winning trial to the full batch), **carbonation / priming** with a bottle-pressure safety warning, temperature correction, SG↔Brix, sanitiser dosing, and **blending** — combine two finished batches in any ratio and turn the result into a new batch with weighted OG/ABV and lineage back to its sources.